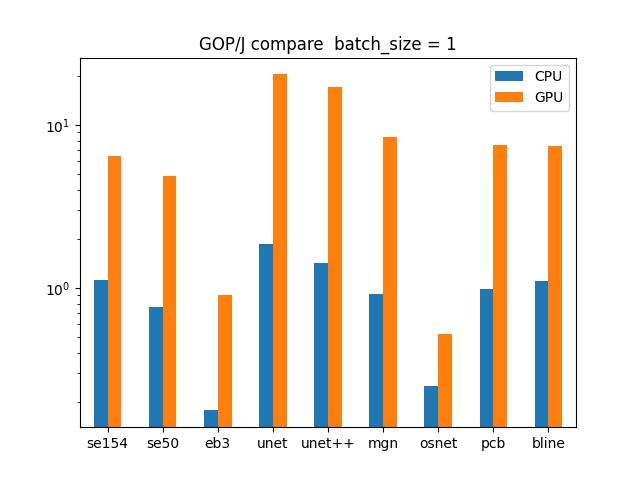
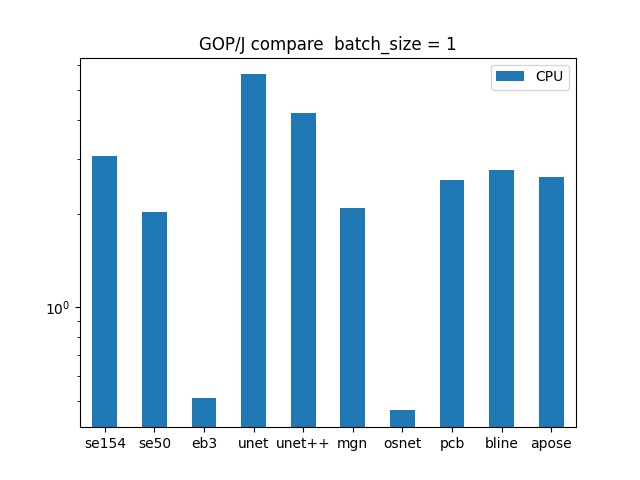
add alphapose and do cpu test

diff --git a/benchmark_op.py b/benchmark_op.py
@@ -48,6 +48,7 @@ class DLHBenchmark():
         self.dataset = InferenceDataset(data_num, 224, 224)
         self.dataset_reid = InferenceDataset(data_num, 384, 128)
         self.dataset_osnet = InferenceDataset(data_num, 256, 128)
+        self.dataset_pose = InferenceDataset(data_num, 256, 192)
 
     def inference_cpu(self, model_name, batch_size):
         durations = []
@@ -60,6 +61,8 @@ class DLHBenchmark():
             input_res = (3, 256, 128)
         elif model_name == "mgn" or model_name == "pcb" or model_name == "baseline":
             input_res = (3, 384, 128)
+        elif model_name == "alphapose":
+            input_res = (3, 256, 192)
         macs, params = get_model_complexity_info(model, input_res, as_strings=True, 
                                         print_per_layer_stat=False, verbose=True)                                                
         float_macs = transStr2Float(macs)
@@ -76,6 +79,8 @@ class DLHBenchmark():
             img_dataset = self.dataset_osnet
         elif model_name == "mgn" or model_name == "pcb" or model_name == "baseline":
             img_dataset = self.dataset_reid
+        elif model_name == "alphapose":
+            img_dataset = self.dataset_pose
 
         img_dataloader = DataLoader(dataset = img_dataset,
                                 batch_size = batch_size,
@@ -117,6 +122,8 @@ class DLHBenchmark():
             input_res = (3, 256, 128)
         elif model_name == "mgn" or model_name == "pcb" or model_name == "baseline":
             input_res = (3, 384, 128)
+        elif model_name == "alphapose":
+            input_res = (3, 256, 192)
         macs, params = get_model_complexity_info(model, input_res, as_strings=True, 
                                         print_per_layer_stat=False, verbose=True)                                                
         float_macs = transStr2Float(macs)
@@ -133,6 +140,8 @@ class DLHBenchmark():
             img_dataset = self.dataset_osnet
         elif model_name == "mgn" or model_name == "pcb" or model_name == "baseline":
             img_dataset = self.dataset_reid
+        elif model_name == "alphapose":
+            img_dataset = self.dataset_pose
         img_dataloader = DataLoader(dataset = img_dataset,
                                 batch_size = batch_size,
                                 num_workers = 4)
@@ -216,13 +225,17 @@ class DLHBenchmark():
                 benchmark_opj_new.to_csv(file_name, index = True)
 
 if __name__ == "__main__":
-    warm_up = 5
-    infer_epoch = 5
-    batch_size_list = [1, 2, 4]
+    # warm_up = 5
+    # infer_epoch = 5
+    # batch_size_list = [1, 2, 4]
+    warm_up = 2
+    infer_epoch = 2
+    batch_size_list = [1]
     model_list = ["senet154", "se_resnext50_32x4d", "efficientnet_b3", "unet", "unetpp",
-            "mgn", "osnet", "pcb", "baseline"]
-    model_simple = ["se154", "se50", "eb3", "unet", "unet++", "mgn", "osnet", "pcb", "bline"]
-    hardware_info = {"CPU":45, "GPU":75}
+            "mgn", "osnet", "pcb", "baseline", "alphapose"]
+    model_simple = ["se154", "se50", "eb3", "unet", "unet++", "mgn", "osnet", "pcb", "bline", "apose"]
+    #hardware_info = {"CPU":45, "GPU":75}
+    hardware_info = {"CPU":15}
     dlh_bench = DLHBenchmark(warm_up, infer_epoch, batch_size_list,
                             model_list, model_simple, hardware_info)
     dlh_bench.bench_opsj()

diff --git a/pretrained_models/models/alphapose.py b/pretrained_models/models/alphapose.py
@@ -8,7 +8,11 @@ import torch.nn.functional as F
 import yaml
 from easydict import EasyDict as edict
 import time
+import os
+from thop import profile
+from ptflops import get_model_complexity_info
 
+PretrainedURL = r"C:\Users\10125\.cache\torch\hub\checkpoints\fast_res50_256x192.pth"
 __all__ = ["alphapose"]
 
 class DUC(nn.Module):
@@ -313,15 +317,17 @@ class FastPose(nn.Module):
                 nn.init.normal_(m.weight, std=0.001)
                 nn.init.constant_(m.bias, 0)
 
-def get_cfg(file_path=None):
-    ori_path = r"config/net.yaml"
-    if file_path != None:
-        ori_path = file_path
-    with open(ori_path) as f:
+def get_cfg(new_path=None):
+    base_path = r"pretrained_models\models\config\net.yaml"
+    if new_path != None:
+        base_path = new_path
+    root_path = os.getcwd()
+    file_path = os.path.join(root_path, base_path)
+    with open(file_path) as f:
         config = edict(yaml.load(f, Loader=yaml.FullLoader))
         return config
 
-def alphapose(cfg_file=None, pretrained=None, checkpoint_path="", device_cfg="cpu"):
+def alphapose(cfg_file=None, pretrained=True, device_cfg="cpu"):
     cfg = get_cfg(cfg_file)
     model_cfg = cfg.MODEL
     preset_cfg = {
@@ -335,7 +341,7 @@ def alphapose(cfg_file=None, pretrained=None, checkpoint_path="", device_cfg="cp
     
     pose_model = FastPose(**all_cfg)
     if pretrained:
-        pose_model.load_state_dict(torch.load(checkpoint_path, map_location=device_cfg))
+        pose_model.load_state_dict(torch.load(PretrainedURL, map_location=torch.device(device_cfg)))
     return pose_model
 
 if __name__ == "__main__":
@@ -347,4 +353,8 @@ if __name__ == "__main__":
     end_time = time.time()
     duration = (end_time - start_time) * 1000
     print("duration is ", duration)
+    macs, _ = profile(model, inputs=(img, ))
+    print("thop ans is ", macs)
+    macs, _ = get_model_complexity_info(model, (3,256,192), print_per_layer_stat=False)
+    print("ptflop ans is ", macs)
     

diff --git a/pretrained_models/__init__.py b/pretrained_models/__init__.py
@@ -12,6 +12,7 @@ from .models.mgn import mgn
 from .models.osnet import osnet
 from .models.pcb import pcb
 from .models.strong_baseline import baseline
+from .models.alphapose import alphapose
 from .models.utils import (
     GlobalParams,
     BlockArgs,

diff --git a/pretrained_models/models/__init__.py b/pretrained_models/models/__init__.py
@@ -9,6 +9,7 @@ from .mgn import mgn
 from .osnet import osnet
 from .pcb import pcb
 from .strong_baseline import baseline
+from .alphapose import alphapose
 from .utils import (
     GlobalParams,
     BlockArgs,
